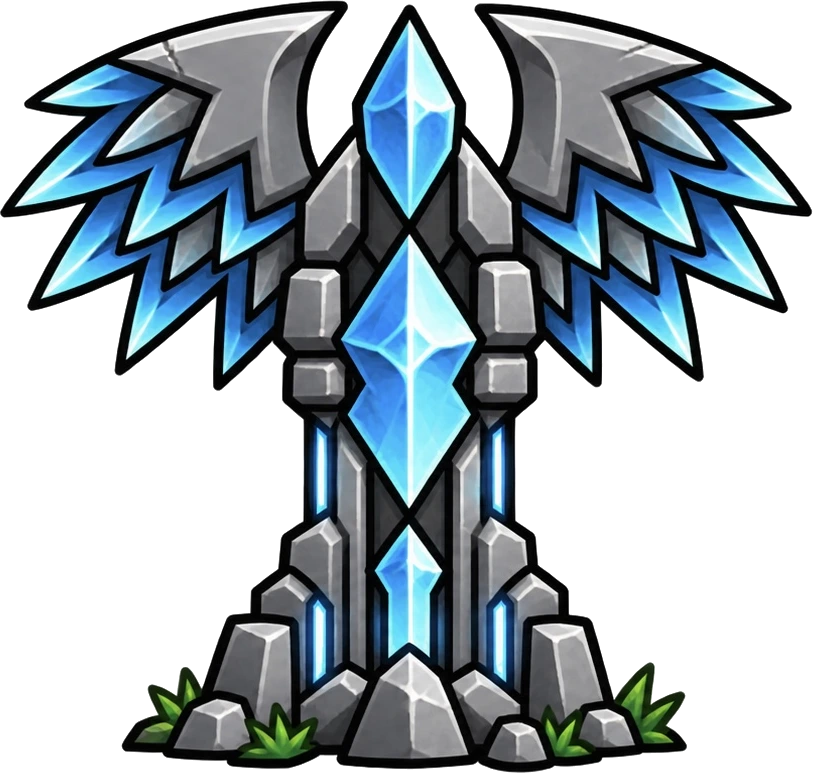
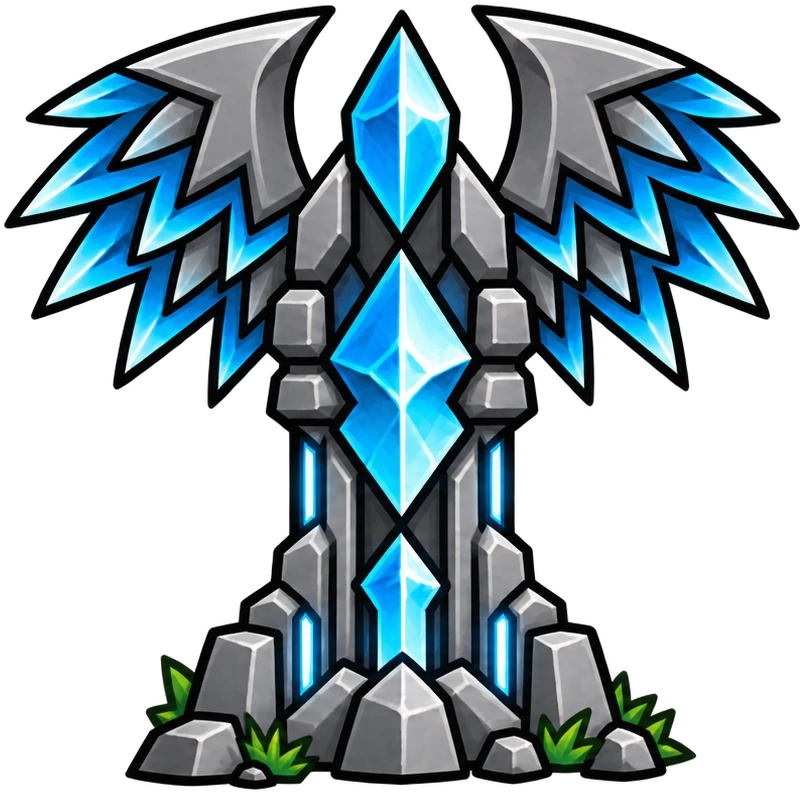
feat(siege): Siege Cartoon's aim stick and clean mana monument in the owner's art

diff --git a/bug-hunter/src/siege/siege.css b/bug-hunter/src/siege/siege.css
@@ -387,3 +387,10 @@
 .siege-root.is-cartoon .sg-bow.is-empty{filter:saturate(.6)}
 @media(max-width:600px){.is-cartoon .sg-bar{--k:.38}.siege-root.is-cartoon .sg-bar .sg-deck button{flex:0 0 calc(152px * var(--k))}}
 @media (max-height:500px) and (orientation:landscape){.is-cartoon .sg-bar{--k:.3}}
+
+/* v1.14.82 — Siege Cartoon's aim stick in the owner's art: the double arrow as its track, the green orb as its knob. */
+.is-cartoon .sg-aim{background:url('/images/game/siege/aim-track.webp') center/contain no-repeat!important;border:0!important;border-radius:0!important;filter:drop-shadow(0 3px 4px #0007)}
+.is-cartoon .sg-aim.is-held{filter:drop-shadow(0 0 6px #9bf07a) drop-shadow(0 3px 4px #0007)}
+.is-cartoon .sg-aim-up,.is-cartoon .sg-aim-down{visibility:hidden}
+.is-cartoon .sg-aim-knob{width:52px;height:43px;border:0;border-radius:0;box-shadow:none;background:url('/images/game/siege/aim-knob.webp') center/contain no-repeat}
+@media (max-height:500px) and (orientation:landscape){.is-cartoon .sg-aim-knob{width:42px;height:35px}}

diff --git a/bug-hunter/src/version.ts b/bug-hunter/src/version.ts
@@ -4,7 +4,7 @@
  * This folder migration preserves the public game URL, saves and gameplay.
  * The build stamp changes automatically on each deployment.
  */
-export const GAME_VERSION = '1.14.81';
+export const GAME_VERSION = '1.14.82';
 
 declare const __GAME_BUILD__: { commit: string; built: string };
 /** Build stamp from the shared Vite configuration; safe outside Vite too. */

diff --git a/bug-hunter/docs/assets.md b/bug-hunter/docs/assets.md
@@ -91,7 +91,7 @@ Special-mode art that does not belong to one of the nine normal worlds lives und
 Current special set:
 
 - [`special/secret-shift/bosses/`](../assets/special/secret-shift/bosses/) — Secret Shift boss sprites.
-- [`special/siege/`](../assets/special/siege/) — Siege's battlefield (`backdrop`, ground included) and its side-view fortresses: ours (`castle-1..4`, a round turret on the right for the crossbow) and the enemy's (`enemy-1..3`), one per upgrade/difficulty level, and our crossbow (`xbow-1..4`, one picture each, drawn horizontal and pointing right, turning on its wheel; the fourth is a rocket launcher). Also the mana monument in mid-field (`mana`, a winged crystal pillar) and Siege Cartoon's battle bar, cut from the owner's bar picture: the L · A · S hexes (`bar-tab-l|a|s`), the golden staff (`bar-staff`), one wall tile with a card slot (`bar-wall`, repeated along the deck) and the bow ball in its spiked ring (`bar-bow`).
+- [`special/siege/`](../assets/special/siege/) — Siege's battlefield (`backdrop`, ground included) and its side-view fortresses: ours (`castle-1..4`, a round turret on the right for the crossbow) and the enemy's (`enemy-1..3`), one per upgrade/difficulty level, and our crossbow (`xbow-1..4`, one picture each, drawn horizontal and pointing right, turning on its wheel; the fourth is a rocket launcher). Also the aim stick (`aim-track`, the double arrow, and `aim-knob`, the green orb), the mana monument in mid-field (`mana`, a winged crystal pillar) and Siege Cartoon's battle bar, cut from the owner's bar picture: the L · A · S hexes (`bar-tab-l|a|s`), the golden staff (`bar-staff`), one wall tile with a card slot (`bar-wall`, repeated along the deck) and the bow ball in its spiked ring (`bar-bow`).
 
 ## Repository path vs browser URL
 

diff --git a/bug-hunter/CHANGELOG.md b/bug-hunter/CHANGELOG.md
@@ -4,6 +4,12 @@
 
 This changelog tracks game-version changes starting with v1.12.55. Earlier releases are not reconstructed here.
 
+## 1.14.82 - 2026-10-26
+
+### Changed - Siege Cartoon's aim stick and mana monument
+- The aim stick is the owner's: a double arrow as its track and a green orb in a steel ring as its knob, glowing green while held.
+- The mana monument uses the owner's clean cut-out (no white fringe left from the earlier JPEG).
+
 ## 1.14.81 - 2026-10-26
 
 ### Changed - Siege Cartoon's battle bar and mana monument in the owner's art
